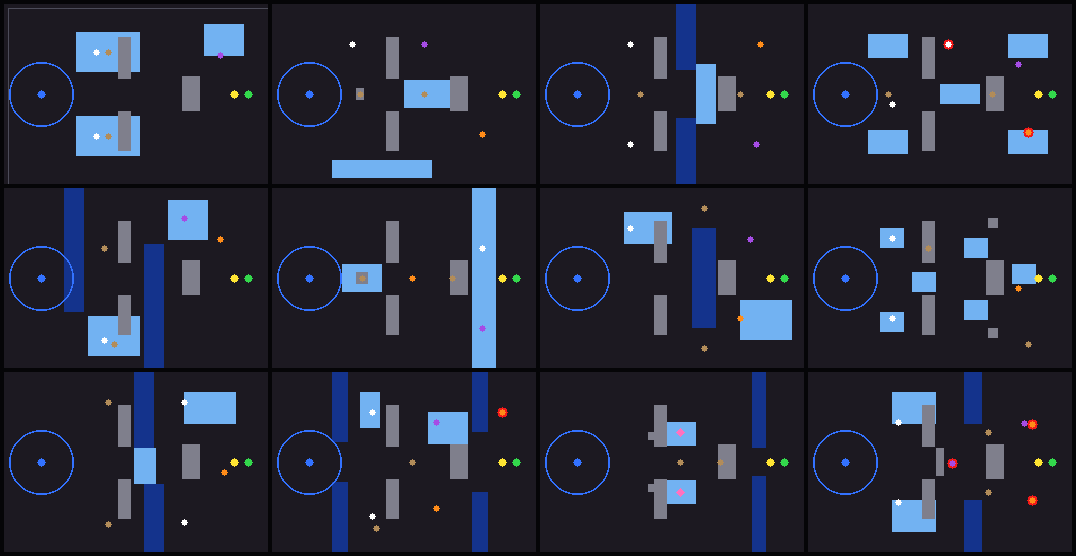
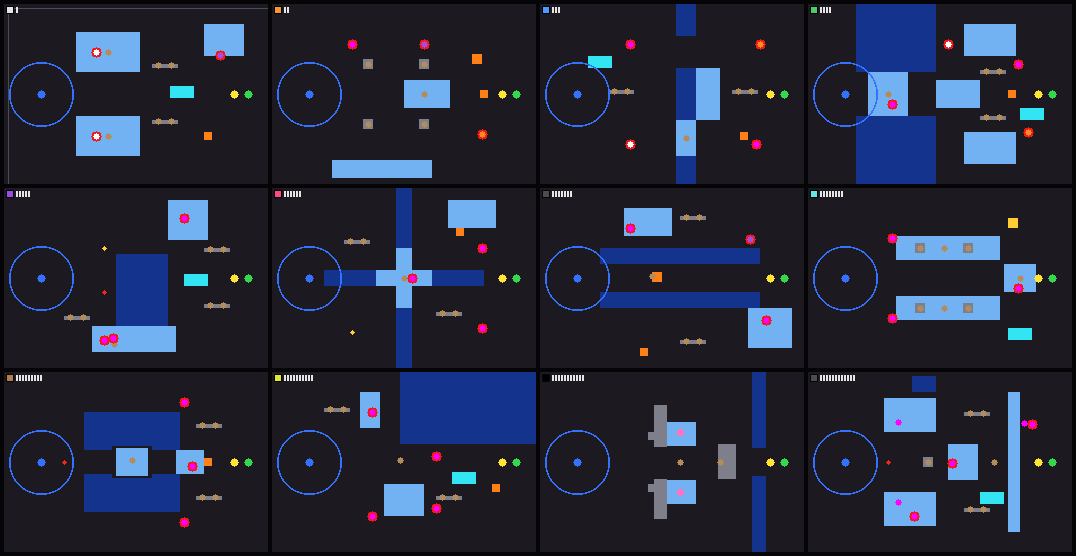
AD-203: cistern after-sheet, 20-seed smoke, docs

diff --git a/docs/rooms/README.md b/docs/rooms/README.md
@@ -49,3 +49,27 @@ Rules: [ROOM_RULES.md](ROOM_RULES.md). Before / after sheets: [ruins_rooms_befor
 Results (2026-11-10): `demo_smoke.gd --seeds=20 --det-seeds=5` green, no failing seeds; `scripts/validate_godot.py --godot /usr/local/bin/godot` exit 0; `tests/test_ad_room_rules.gd` green. Bot bench numbers are INFO only.
 
 Perf probe digest: `tests/qa/demo_perf_probe.gd` `BASELINE_DIGESTS["ruins_c07"]` was **not** recomputed. `ruins_c07` is not in the default seed's room sequence (`--rooms=ruins_c07` gives "room not in sequence"), and the `cistern_boss` / `ruins_boss` digests already differ in `--verify-digests` runs, so the baselines need a separate refresh by the perf owner. The probe is measurement only and is not part of validate or smoke.
+
+# AD-203 Cistern v2 layouts
+
+Rules: [ROOM_RULES.md](ROOM_RULES.md). Before / after sheets: [cistern_rooms_before.png](cistern_rooms_before.png), [cistern_rooms_after.png](cistern_rooms_after.png); the legacy per-template sheet [cistern_layouts.png](cistern_layouts.png) was regenerated too. The 10 combat rooms and the challenge room in `world/data/rooms_cistern_v1.json` each use a different shape. Regenerate the after sheet (headless): `godot --headless --path . --script res://tools/room_layout_sheet.gd -- res://world/data/run_v2.json docs/rooms/cistern_rooms_after.png --stage=cistern`.
+
+| Room | Shape | Obstacles (walls / pipes / deep channels / solid props) | Interactions |
+|---|---|---|---|
+| `cistern_p01` | open_hall | 2 walls, 4 pipes | crate, puddle (conducts), 3 shallow pools |
+| `cistern_p02` | pillared_hall | 4 walls, pillars | crate, cobweb, 2 shallow pools |
+| `cistern_p03` | split_bridges | 2 walls, pipes, 3 deep channel segments | crate, puddle; two bridges between the segments |
+| `cistern_p04` | corridor_chamber | 2 walls, pipes, 2 deep walls around the corridor | crate, puddle |
+| `cistern_p05` | ring_pit | 3 walls, pipes, central deep pool | urn, brazier, puddle; eel in the shallow rim |
+| `cistern_p06` | cross_hall | 2 walls, pipes, 4 deep arms | crate, urn; centre crossing |
+| `cistern_p07` | eel_lanes | 2 walls, pipes, 2 long deep lanes | crate, cobweb; eels in the shallow lanes |
+| `cistern_p08` | colonnade | 4 walls, pillars | puddle, cracked wall |
+| `cistern_p09` | dais_island | 2 walls, pillar, pipes, 6 deep rects around the crystal-platform island | crate, brazier |
+| `cistern_p10` | l_bend | 2 walls, pipes, one large deep block | puddle, crate |
+| `cistern_challenge_v1` | flooded_arena | 3 walls, pillar, pipes, deep pool | brazier, puddle, 4 shallow pools (cistern_boss pools) |
+
+Water vocabulary: **channels** are deep rects (block walking, not spells or sight); **bridges** are the floor gaps between deep rects, at least 80 u wide (board minimum 56 u); **grates** and **pipes** are `layout.props` cover; **puddles** are `env_props` that conduct lightning like shallow water; **eel lanes** are shallow strips between deep water (p05, p07) where eels stay; the **crystal-platform island** is the p09 centre; the challenge room reuses the `cistern_boss` pools for the mini-boss arena.
+
+Results (2026-11-10): `demo_smoke.gd --seeds=20 --det-seeds=5` green (20/20 smoke, 6/6 determinism, no failing seeds); `scripts/validate_godot.py --godot /usr/local/bin/godot` exit 0; `tests/test_ad_room_rules.gd` green. Bot bench numbers are INFO only; no HP or tuning changed.
+
+Perf probe: `tests/qa/demo_perf_probe.gd` baselines were **not** recomputed.

diff --git a/docs/rooms/ROOM_RULES.md b/docs/rooms/ROOM_RULES.md
@@ -61,3 +61,9 @@ Placeholders today, to be replaced (list for the AD-202 PR):
 - Pits have no Ruins pit or pit-edge tiles.
 - Bridge edge tiles (ruins_c06 split_bridges) are missing.
 - The approved AD-217 Ruins cover art (intact/cracked pillar, rubble, sarcophagi, broken walls, with collision footprints) still needs wiring into `env_props_v1`. `art/arcane_dungeon/AD-217/` did not exist in this worktree, so it could not be checked or wired here.
+
+Still missing for the Cistern (AD-203):
+
+- The AD-219 r2 channel and bridge tiles and the AD-227 crystal platform and bridge decks (walkable 68x60 / 120x60 u; decks 56 u) are not wired. Today bridges are plain floor gaps and the island is plain floor.
+- The AD-218 Cistern cover (pipes, grates) is still placeholder.
+- The AD-099 r3 Cistern tiles.
